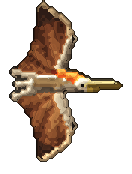
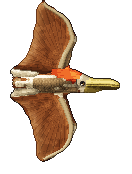
Flying Pteranodon painted in HD, with a wing-membrane helper
Painter.Membrane: a taut, nearly flat skin, bellied out behind the
leading edge and darkening to the tip, fibres (actinofibrils) fanning
out along it, warm light through its thin free edge, the arm and finger
bones reading through as lit tubes with a shadow beside them. The body
is furred with pycnofibres, the crest lit as a plate, the beak glossy.

Changed region(s): [[0.0606, 0.0, 0.9394, 0.9483]]

diff --git a/internal/dinopaint/membrane.go b/internal/dinopaint/membrane.go
@@ -1,0 +1,218 @@
+package dinopaint
+
+import (
+	"image/color"
+	"math"
+)
+
+// The wing of a pterosaur: a thin skin stretched from the long fourth
+// finger back to the body and the legs, stiffened by fine fibres
+// (actinofibrils) that run out along it towards the tip. It is lit as a
+// taut, nearly flat sheet; its fibres show as faint lines; where it is
+// thinnest, along its free edge and at the tip, light comes through it,
+// warm; and the bones of the arm and the finger read through as ridges
+// with a lit side and a shadow beside them.
+//
+// Membrane is called in a species' Details after Plumage (which lights the
+// furred body), and paints over what is there.
+
+// MembraneSpec is one wing's membrane.
+type MembraneSpec struct {
+	Region SDF      // where the membrane is
+	Mat    []string // only over these materials (nil: any)
+
+	Fibres Coords  // the fibres run along s; they are Gap apart across it
+	Gap    float64 // guide pixels (0: 1.2)
+	Fibre  float64 // how dark a fibre is (0: 0.08)
+
+	Flat   float64 // how far the body's rounded light is flattened, 0-1 (0: 0.6)
+	Camber SDF     // the membrane bellies out, lighter, near this (the leading edge); nil: none
+
+	Glow     float64  // how much light shines through near the free edge (0: 0.55)
+	GlowW    float64  // how far in from the edge it reaches, guide pixels (0: 1.8)
+	GlowRamp []uint32 // the colour of the light through it, dark to light
+	Free     SDF      // where the edge is free (inside: the trailing edge, the tip); nil: all of it
+
+	// Distal darkens it towards the tip: by this much from DistalFrom to
+	// DistalTo along the fibres (s).
+	Distal, DistalFrom, DistalTo float64
+
+	Bones []Bone // what reads through it, painted over it
+	Seed  uint32
+}
+
+// Bone is a bone along the polyline Pts, R thick at its start and R1 at its
+// end (0: R), lit as a tube in Ramp (dark to light).
+type Bone struct {
+	Pts   []float64
+	R, R1 float64
+	Ramp  []uint32
+	Shade float64 // added to its light: below 0 for a bone under the membrane or far off
+}
+
+// Membrane paints a wing's membrane over the hide in its region.
+func (p *Painter) Membrane(m MembraneSpec) {
+	gap := m.Gap
+	if gap == 0 {
+		gap = 1.2
+	}
+	fib := m.Fibre
+	if fib == 0 {
+		fib = 0.08
+	}
+	flat := m.Flat
+	if flat == 0 {
+		flat = 0.6
+	}
+	glow := m.Glow
+	if glow == 0 {
+		glow = 0.55
+	}
+	gw := m.GlowW
+	if gw == 0 {
+		gw = 1.8
+	}
+	mats := map[int]bool{}
+	for _, n := range m.Mat {
+		mats[p.MatID(n)] = true
+	}
+	pick := func(r []uint32, v float64) color.NRGBA {
+		return rgb(r[max(0, min(len(r)-1, int(math.Floor(clamp01(v)*float64(len(r))-1e-9))))])
+	}
+	flatV := LightOn(norm3(0, 0, 1))
+	detail := p.guideDetail()
+	out := append([]color.NRGBA(nil), p.Out...)
+	for py := 0; py < p.H; py++ {
+		for px := 0; px < p.W; px++ {
+			i := py*p.W + px
+			if !p.In[i] || p.Pro[i] || (len(mats) > 0 && !mats[p.Mat[i]]) {
+				continue
+			}
+			x, y := G(px, py)
+			if m.Region(x, y) > 0 {
+				continue
+			}
+			edge := false
+			for _, d := range [4][2]int{{1, 0}, {-1, 0}, {0, 1}, {0, -1}} {
+				if !p.Inside(px+d[0], py+d[1]) {
+					edge = true
+				}
+			}
+			v := lerp(p.Val[i], flatV, flat)
+			if detail != nil {
+				v += flat * p.Sp.GuideDetail * detail.Sample(x, y) // the drawing's mottling, kept
+			}
+			if m.Camber != nil {
+				// Bellied out behind the leading edge, then falling to the trailing one.
+				d := max(0, m.Camber(x, y))
+				v += 0.13*math.Exp(-d/2) - 0.07*smoothstep(2, 6, d)
+			}
+			if m.Fibres != nil && m.Distal != 0 {
+				s, _ := m.Fibres(x, y)
+				v -= m.Distal * smoothstep(m.DistalFrom, m.DistalTo, s)
+			}
+			// The fibres: faint dark lines with a lit lip beside them.
+			if m.Fibres != nil {
+				s, t := m.Fibres(x, y)
+				f := t/gap - math.Floor(t/gap)
+				var_ := 0.55 + 0.45*fbm(s*0.45, t*0.2, m.Seed+11, 2)
+				switch {
+				case f < 0.2:
+					v -= fib * var_
+				case f < 0.4:
+					v += fib * 0.35 * var_
+				}
+			}
+			// Thin where it is free: light comes through.
+			g := 0.0
+			if m.Free == nil || m.Free(x, y) <= 0 {
+				e := -p.Sil.V[i] // in from the outline
+				g = glow * math.Exp(-max(0, e-0.2)/gw)
+			}
+			c := p.Tone(p.Mat[i], v)
+			if len(m.GlowRamp) > 0 && g > 0 {
+				c = Mix(c, pick(m.GlowRamp, v+0.15), g)
+			}
+			if edge {
+				// A thin edge, the light through it dimmed: no ink line.
+				k := p.ToneIdx(p.Mat[i], v)
+				e := p.Step(p.Mat[i], k-2)
+				if len(m.GlowRamp) > 0 && g > 0 {
+					e = Mix(e, pick(m.GlowRamp, v-0.15), g*0.8)
+				}
+				c = Mix(e, Ink, 0.4-0.25*g)
+			}
+			p.Val[i] = v
+			out[i] = c
+		}
+	}
+	p.Out = out
+	for _, b := range m.Bones {
+		p.bone(b)
+	}
+}
+
+// bone paints a bone that reads through the membrane: a tube lit on the
+// side towards the light, a shadow along its other side on the skin.
+func (p *Painter) bone(b Bone) {
+	r1 := b.R1
+	if r1 == 0 {
+		r1 = b.R
+	}
+	c := newCurve(b.Pts)
+	total := c.run[len(c.run)-1]
+	pick := func(v float64) color.NRGBA {
+		r := b.Ramp
+		return rgb(r[max(0, min(len(r)-1, int(math.Floor(clamp01(v)*float64(len(r))-1e-9))))])
+	}
+	x0, y0, x1, y1 := math.Inf(1), math.Inf(1), math.Inf(-1), math.Inf(-1)
+	for k := range c.x {
+		x0, y0, x1, y1 = min(x0, c.x[k]), min(y0, c.y[k]), max(x1, c.x[k]), max(y1, c.y[k])
+	}
+	rr := max(b.R, r1) + 1
+	for py := int((y0 - rr) * K); py <= int((y1+rr)*K); py++ {
+		for px := int((x0 - rr) * K); px <= int((x1+rr)*K); px++ {
+			i := p.Idx(px, py)
+			if i < 0 || !p.In[i] {
+				continue
+			}
+			x, y := G(px, py)
+			s, t := c.at(x, y)
+			if s < 0 || s > total {
+				continue
+			}
+			u := s / total
+			r := lerp(b.R, r1, u)
+			// Which side of the bone faces the light.
+			k := min(len(c.x)-2, max(0, int(u*float64(len(c.x)-1))))
+			dx, dy := c.x[k+1]-c.x[k], c.y[k+1]-c.y[k]
+			l := math.Hypot(dx, dy)
+			if l == 0 {
+				continue
+			}
+			nx, ny := -dy/l, dx/l // + t is this side
+			lit := -(nx*light2x + ny*light2y)
+			at := t / r // -1 to 1 across
+			edge := false
+			for _, d := range [4][2]int{{1, 0}, {-1, 0}, {0, 1}, {0, -1}} {
+				if !p.Inside(px+d[0], py+d[1]) {
+					edge = true
+				}
+			}
+			switch {
+			case math.Abs(at) <= 1:
+				// The tube: lit across it towards the light.
+				v := 0.55 + 0.35*(-at*lit) - 0.25*at*at + b.Shade
+				if edge {
+					p.Out[i] = Mix(pick(v-0.35), Ink, 0.45)
+				} else {
+					p.Out[i] = pick(v)
+				}
+				p.Pro[i] = true
+			case math.Abs(at) <= 1+0.55/r && at*lit > 0 && !edge && !p.Pro[i]:
+				// Its shadow on the skin beside it.
+				p.Out[i] = Mix(p.Out[i], Ink, 0.22)
+			}
+		}
+	}
+}

diff --git a/internal/dinopaint/ptero.go b/internal/dinopaint/ptero.go
@@ -1,0 +1,104 @@
+package dinopaint
+
+// Pteranodon. dinos/ptero_fly.png, 44 x 58: flying, seen from above, head
+// to the right, the far wing up the picture and the near one down it, the
+// pale bones of the arm and the long finger along each wing's leading edge,
+// a brown membrane, a cream furred body, an orange crest swept back over the
+// neck and a long beak. Its rig is "pteroFly" in internal/client/dinorigs.go:
+// each wing turns about its shoulder, (18.5, 22.2) and (18.5, 33.8), and the
+// whole drawing is squashed up and down through a wingbeat.
+//
+// dinos/ptero_perch.png, 56 x 39: on the ground, side on, walking on its
+// knuckles with the wings folded (rig "pteroPerch": drawn as it stands).
+
+func init() { Register(pteroFly()) }
+
+var (
+	pteroMembrane = []uint32{0x1e0e0a, 0x2e160e, 0x44200f, 0x5c2c14, 0x76391a, 0x904a22, 0xa85e2c, 0xc07438}
+	pteroGlow     = []uint32{0x5a2410, 0x82361a, 0xa84c22, 0xc86a2e, 0xe08a40, 0xf0aa5c, 0xf8c87e, 0xfde0a8}
+	pteroBone     = []uint32{0x4a3a26, 0x6e5838, 0x947a50, 0xb49a6a, 0xcab284, 0xdccaa0, 0xece0c0, 0xf8f0dc}
+	pteroCream    = []uint32{0x4e4234, 0x706048, 0x92805e, 0xb4a07a, 0xd0be98, 0xe6d8b8, 0xf4ecd6, 0xfffaee}
+	pteroTan      = []uint32{0x2e2216, 0x463420, 0x60482c, 0x7c5e3a, 0x987448, 0xb08a58, 0xc6a26e, 0xdabc8c}
+	pteroCrest    = []uint32{0x4a1008, 0x6e180c, 0x962410, 0xbc3416, 0xdc4c1e, 0xf06e2a, 0xf89a3c, 0xffc458}
+	pteroBeak     = []uint32{0x3a2c10, 0x564418, 0x745e22, 0x92782e, 0xb0963e, 0xcab252, 0xe2ce6e, 0xf6e696}
+	pteroEye      = []uint32{0x0a0808, 0x1c1410, 0x3a2614, 0x5e3c18, 0x845820, 0xa8742c}
+)
+
+func pteroFly() *Species {
+	// The bones of each wing, shoulder to wingtip, along its leading edge.
+	farBone := []float64{20.1, 22.8, 21.6, 18.5, 23.4, 15, 24.1, 12.6, 23.6, 10.5, 23, 8.5, 21.5, 6.2, 18.6, 4, 15.6, 2.2, 14.6, 0.9}
+	nearBone := []float64{20.1, 32.6, 21.6, 35.5, 22.8, 38.8, 23.8, 42, 23.6, 44.5, 23, 47, 21.1, 49.8, 18.4, 51.3, 15.9, 52.5, 14.7, 53.2}
+	farWing := Poly(14, -0.5, 18.5, 3, 22, 6.5, 23.8, 10, 24.2, 13, 23.2, 17, 21.6, 21, 20.6, 23.6, 4.5, 23.6, 6, 21, 9.5, 17, 11, 12, 11.5, 3)
+	nearWing := Poly(19, 31.6, 21.5, 34, 23.8, 41, 23.8, 45, 22.6, 48, 20, 50.2, 16, 52.6, 13.8, 53.8, 11.4, 52, 11, 45, 10.2, 40, 9, 36, 5, 33.5, 3.5, 32.5, 12, 31.6)
+	body := Blend(1.2,
+		Ellipse(17, 27.4, 8.2, 2.7, 0),
+		Cone(23, 27.2, 1.9, 27.4, 27.2, 1.6),
+		Path([3]float64{10, 27.5, 1.3}, [3]float64{3, 27.5, 0.8}), // the short tail
+	)
+	head := Ellipse(27.4, 27.1, 2.2, 1.9, 0)
+	legs := Union(Cone(11.5, 24.6, 1.0, 3.8, 23.6, 0.7), Cone(11.5, 30.4, 1.0, 3.8, 31.3, 0.7))
+	crest := Poly(26.8, 23.2, 26.8, 26.4, 21.5, 26.2, 17.2, 24.8, 17.2, 22.9)
+	beak := Poly(28.6, 26.5, 34, 26.6, 39.6, 27.5, 40.9, 28.6, 39.6, 29.5, 33, 29.4, 28.7, 29.1)
+	return &Species{
+		Name:        "ptero_fly",
+		GuideDetail: 0.4,
+		Ink:         36,
+		Materials: []Material{
+			{Name: "membrane", Seeds: []uint32{0x93552f, 0x6e3a22, 0x4a2618, 0xb47642, 0x2e1c16, 0x44281c, 0x2c1610}, Ramp: pteroMembrane, Relief: 0.05},
+			{Name: "cream", Seeds: []uint32{0xfdf6e2, 0xeee2c6, 0xd4c2a2, 0xd7d1c0, 0xb09a7c, 0xc0a074, 0x967652}, Ramp: pteroCream},
+			{Name: "tan", Seeds: []uint32{0xb08a58, 0x8e6840, 0x96754b, 0x86725a, 0x5a4a3a, 0x4c3f31}, Ramp: pteroTan},
+			{Name: "crest", Seeds: []uint32{0xe0541e, 0xf88a2e, 0xffc050, 0x6e2418}, Ramp: pteroCrest, Region: crest},
+			{Name: "beak", Seeds: []uint32{0xf8e69a, 0x6e5420, 0x9c7a2c, 0xffe27a}, Ramp: pteroBeak, Relief: 0.3, Region: beak},
+		},
+		Recolor: []Recolor{
+			{Region: Union(farWing, nearWing), From: []string{"cream", "tan"}, To: "membrane"}, // the leading edge is painted as bone
+			{Region: Poly(0, 0, 44, 0, 44, 22.4, 0, 22.4), From: []string{"crest"}, To: "membrane"},
+		},
+		Parts: []Part{
+			{Name: "farWing", Shape: farWing, Round: 1.6, Soft: 0.8, Scale: 0.8},
+			{Name: "nearWing", Shape: nearWing, Round: 1.6, Soft: 0.8, Scale: 0.8},
+			{Name: "legs", Shape: legs, Round: 0.8, Soft: 0.5, Scale: 0.5, Mat: "cream"},
+			{Name: "body", Shape: body, Round: 2.6, Soft: 0.7, Muscles: []Muscle{
+				Mu(19, 27.2, 5, 2, 0, 0.6), // the back over the shoulders
+				Mu(27.5, 26.8, 1.6, 1.2, 0, 0.4),
+			}},
+			{Name: "head", Shape: head, Round: 1.5, Soft: 0.5, Scale: 0.5, Mat: "cream", Muscles: []Muscle{Mu(27.2, 26.6, 1.4, 1, 0, 0.5)}},
+			{Name: "crest", Shape: crest, Round: 0.8, Soft: 0.5, Scale: 0.6, Mat: "crest"},
+			{Name: "beak", Shape: beak, Round: 0.9, Soft: 0.4, Scale: 0.5, Mat: "beak"},
+		},
+		Skin:    Skin{Flank: 1.0, Back: 1.2, Belly: 0.9, BackDepth: 1, BellyDepth: 1, Relief: 0.5, Seed: 53},
+		Details: pteroFlyDetails(farBone, nearBone, farWing, nearWing, crest),
+	}
+}
+
+func pteroFlyDetails(farBone, nearBone []float64, farWing, nearWing, crest SDF) func(p *Painter) {
+	return func(p *Painter) {
+		p.Plumage(&Plumage{Seed: 23, Edge: 0.35, Tracts: []Tract{
+			// The furred body: fine pycnofibres from the nape back.
+			{Name: "fur", Region: Poly(3, 24.5, 24.6, 24.6, 24.8, 30.2, 3, 30.6), Parts: []string{"body"},
+				Flow: Along(26, 27.2, 18, 27.3, 9, 27.5, 2, 27.5), Len: 1.2, Wid: 0.55, Hair: true, Relief: 0.8, Fluff: 0.3, Snap: true},
+		}})
+		wing := func(region SDF, bone []float64, fan Coords, free SDF) {
+			p.Membrane(MembraneSpec{Region: region, Mat: []string{"membrane"},
+				Fibres: fan, Gap: 1.1, Fibre: 0.13, Flat: 0.55, Distal: 0.16, DistalFrom: 11, DistalTo: 21,
+				Camber: Path(pts3(bone, 0)...), Glow: 0.6, GlowW: 1.7, GlowRamp: pteroGlow, Free: free,
+				Bones: []Bone{{Pts: bone, R: 0.95, R1: 0.5, Ramp: pteroBone}}, Seed: 7})
+		}
+		wing(farWing, farBone, Fan(21.5, 23, 10, -1.78), Poly(-1, -1, 13, -1, 21, 12, 21, 21, -1, 22))
+		wing(nearWing, nearBone, Fan(21.5, 33, 10, 1.78), Poly(-1, 59, 13, 59, 21, 44, 21, 34, -1, 33))
+		p.Plane(PlaneSpec{Region: crest, Mat: []string{"crest"}, Tilt: 1.1, Angle: 0.08, Gap: 0.9, Lines: 0.06,
+			FromX: 26.5, FromY: 23.5, Fall: 0.03, Seed: 9})
+		p.Beak(BeakSpec{Mat: "beak", Ridge: []float64{28.8, 26.7, 34, 26.8, 40.6, 28.0}, Mouth: []float64{29, 28.05, 34.5, 28.15, 40.4, 28.5},
+			Gloss: 0.2, LowerShadow: 0.32, GrainSeed: 7})
+		p.Eye(EyeSpec{X: 27.4, Y: 27.9, R: 0.55, Iris: pteroEye, Lid: 0.15, Squint: 1.1})
+	}
+}
+
+// pts3 is a polyline as points of radius r, for Path.
+func pts3(xy []float64, r float64) [][3]float64 {
+	var out [][3]float64
+	for i := 0; i+1 < len(xy); i += 2 {
+		out = append(out, [3]float64{xy[i], xy[i+1], r})
+	}
+	return out
+}
